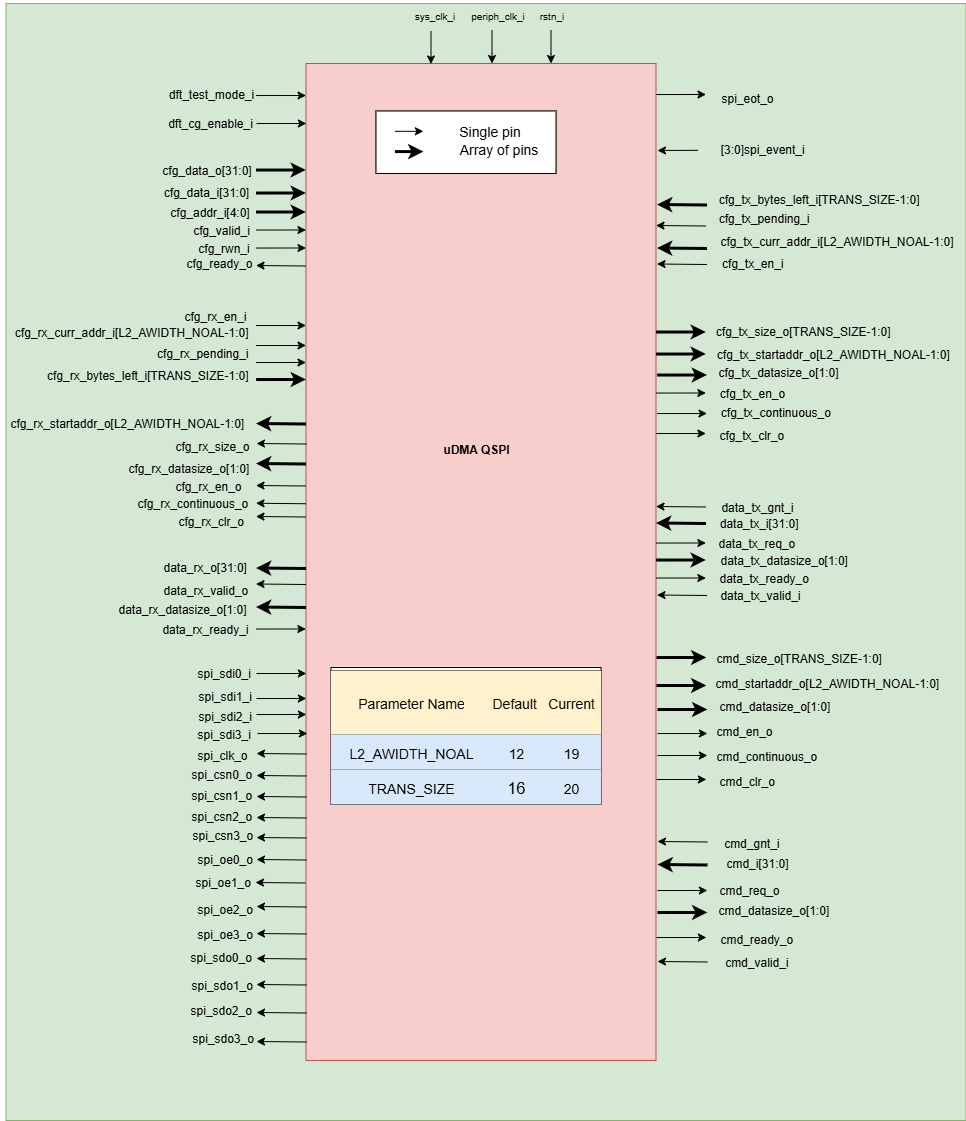
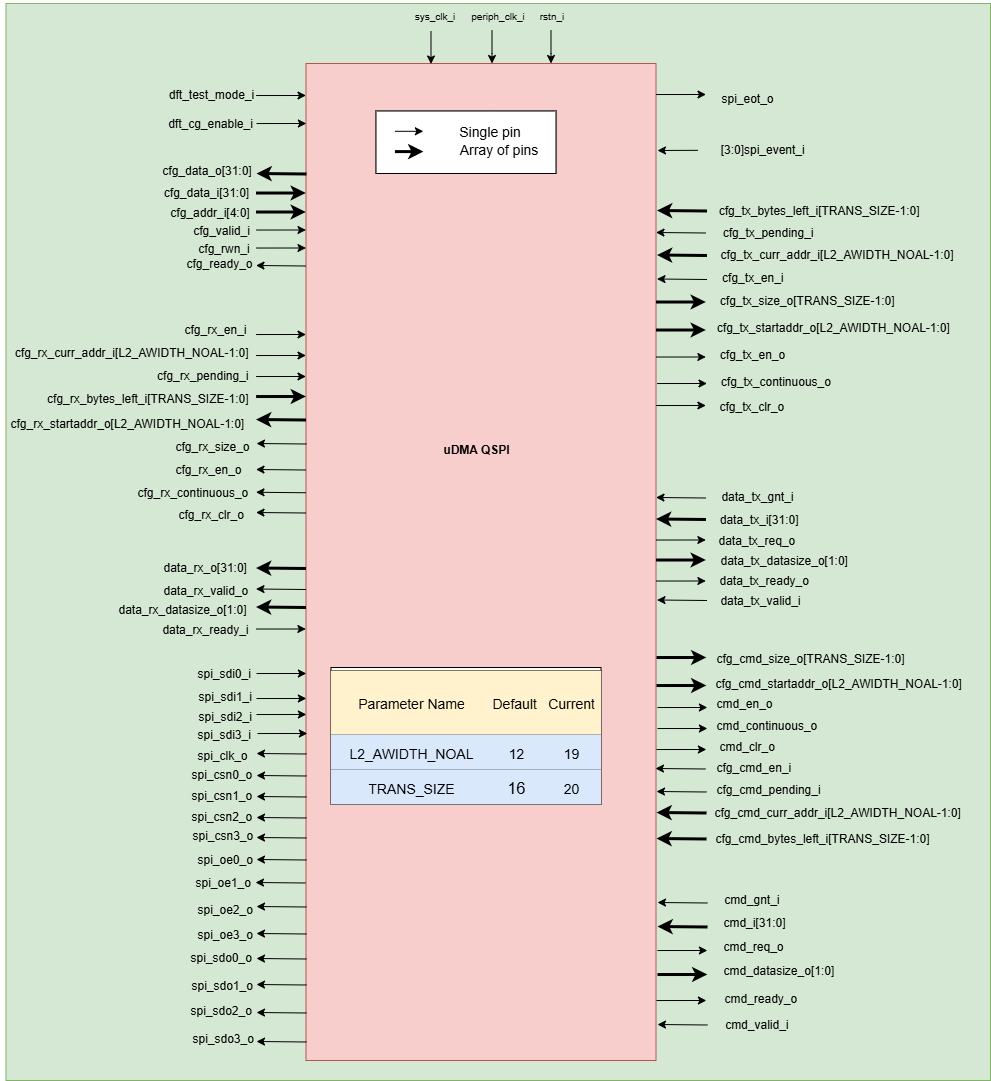
uDMA QSPI: doc cleanup

diff --git a/docs/doc-src/ip-blocks/udma_qspim.rst b/docs/doc-src/ip-blocks/udma_qspim.rst
@@ -850,8 +850,7 @@ The following pins constitute the CMD Tx channel interface of uDMA QSPI. uDMA QS
 - cmd_valid_i
 - cmd_ready_o
 
-cmd_datasize_o pin is hardcoded to value 0x0. These pins reflect the configuration values for the next transaction.
-
+cmd_datasize_o pin is hardcoded to value 0x10. These pins reflect the configuration values for the next transaction.
 
 Tx channel interface
 ^^^^^^^^^^^^^^^^^^^^
@@ -864,7 +863,7 @@ The following pins constitute the Tx channel interface of uDMA QSPI. uDMA QSPI u
 - data_tx_valid_i
 - data_tx_ready_o
 
-data_tx_datasize_o pin is hardcoded to value 0x0. These pins reflect the configuration values for the next transaction.
+These pins reflect the configuration values for the next transaction.
 
 Rx channel interface
 ^^^^^^^^^^^^^^^^^^^^
@@ -875,7 +874,7 @@ The following pins constitute the Rx channel interface of uDMA QSPI. uDMA QSPI u
 - data_rx_valid_o
 - data_rx_ready_i
 
- data_rx_datasize_o pin is hardcoded to value 0x0. These pins reflect the configuration values for the next transaction.
+ These pins reflect the configuration values for the next transaction.
 
 Clock interface
 ^^^^^^^^^^^^^^^
@@ -894,7 +893,7 @@ uDMA QSPI interface to receive events from uDMA core
 ^^^^^^^^^^^^^^^^^^^^^^^^^^^^^^^^^^^^^^^^^^^^^^^^^^^^
 - spi_event_i
 
-uDMA QSPI receieves software events generated used in APB event register external QSPI device on QSPI_rx_i and transmits via QSPI_tx_o.
+uDMA QSPI receives software events generated using APB event generator IP.
 
 uDMA QSPI interface to generate interrupt
 ^^^^^^^^^^^^^^^^^^^^^^^^^^^^^^^^^^^^^^^^^
@@ -919,12 +918,9 @@ uDMA QSPI Rx channel configuration interface
 
    - cfg_rx_startaddr_o
    - cfg_rx_size_o
-   - cfg_rx_datasize_o
    - cfg_rx_continuous_o
    - cfg_rx_en_o
    - cfg_rx_clr_o
-
-   cfg_rx_datasize_o pin is stubbed.
 
 - QSPI shares the values present over the below pins as read values of the config CSRs i.e. RX_SADDR, RX_SIZE, and RX_CFG:
 
@@ -941,12 +937,9 @@ uDMA QSPI Tx channel cmd-configuration interface
 
    - cfg_cmd_startaddr_o
    - cfg_cmd_size_o
-   - cfg_cmd_datasize_o
    - cfg_cmd_continuous_o
    - cfg_cmd_en_o
    - cfg_cmd_clr_o
-
-  cfg_cmd_datasize_o pin is stubbed.
 
 - QSPI shares the values present over the below pins as read values of the config CSRs i.e. CMD_SADDR, CMD_SIZE, and CMD_CFG:
 
@@ -963,12 +956,9 @@ uDMA QSPI Tx channel configuration interface
 
    - cfg_tx_startaddr_o
    - cfg_tx_size_o
-   - cfg_tx_datasize_o
    - cfg_tx_continuous_o
    - cfg_tx_en_o
    - cfg_tx_clr_o
-
-  cfg_tx_datasize_o pin is stubbed.
 
 - QSPI shares the values present over the below pins as read values of the config CSRs i.e. TX_SADDR, TX_SIZE, and TX_CFG:
 
@@ -1019,5 +1009,5 @@ Test Interface
 - dft_test_mode_i: Design-for-test mode signal
 - dft_cg_enable_i: Clock gating enable during test
 
-*dft_test_mode_i* is used to put uDMA Camera into test mode. *dft_cg_enable_i* is used to control clock gating such that clock behavior can be tested.
-*dft_cg_enable_i* pin is not used in the uDMA camera block.
+*dft_test_mode_i* is used to put uDMA QSPI into test mode. *dft_cg_enable_i* is used to control clock gating such that clock behavior can be tested.
+*dft_cg_enable_i* pin is not used in the uDMA QSPI block.
